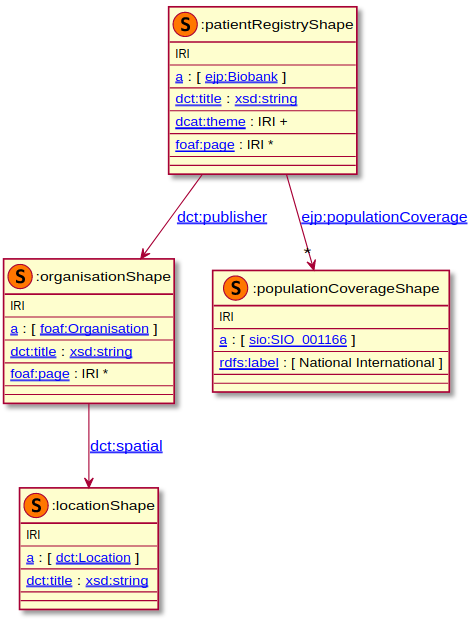
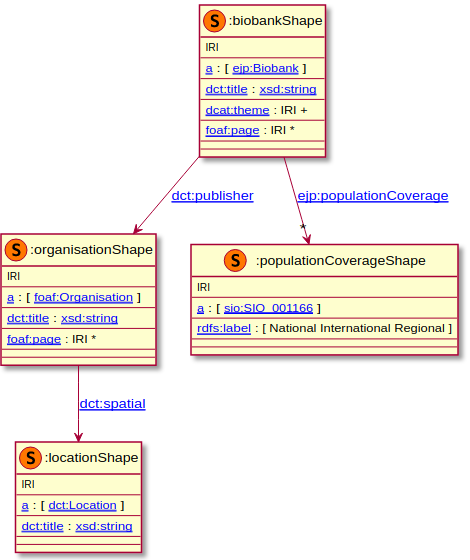
minor issued fixed

Changed region(s): [[0.0, 0.0, 1.0, 1.0]]

diff --git a/docs/guideline.md b/docs/guideline.md
@@ -1,1 +1,70 @@
-### TODO
+### Metadata model figure
+
+<p align="center"> 
+    <a href="https://github.com/rajaram5/resource-metadata-schema/blob/develop/images/turtle/guideline.png" target="_blank">
+        <img src="https://github.com/rajaram5/resource-metadata-schema/blob/develop/images/turtle/guideline.png"> 
+    </a>
+</p>
+
+
+***
+
+### Example rdf (turtle)
+
+```ttl
+@prefix : <http://purl.org/ejp-rd/metadata-model/v1/example-rdf/> .
+@prefix dcat:  <http://www.w3.org/ns/dcat#> .
+@prefix dct:   <http://purl.org/dc/terms/> .
+@prefix ejp:   <http://purl.org/ejp-rd/vocabulary/> .
+@prefix foaf:  <http://xmlns.com/foaf/0.1/> .
+@prefix rdfs:  <http://www.w3.org/2000/01/rdf-schema#> .
+@prefix obo: <http://purl.obolibrary.org/obo/> .
+
+:guideline a ejp:Guideline ;
+  dct:publisher :organisation ;        
+  dct:title "Biomarker Development Manual" ;
+  dcat:theme  obo:NCIT_C17564 ;
+  foaf:page <https://www.uniklinik-freiburg.de/medizin4.html> .
+
+:organisation a foaf:Organisation ;
+  dct:title "EATRIS" .
+```
+
+***
+
+### Validation artifacts 
+
+##### ShEx figure
+
+<p align="center"> 
+    <a href="https://github.com/rajaram5/resource-metadata-schema/blob/develop/images/shex/guideline.png" target="_blank">
+        <img src="https://github.com/rajaram5/resource-metadata-schema/blob/develop/images/shex/guideline.png"> 
+    </a>
+</p>
+
+***
+##### ShEx
+
+``` ShEx
+PREFIX : <http://purl.org/ejp-rd/metadata-model/v1/shex/>
+PREFIX dcat:  <http://www.w3.org/ns/dcat#>
+PREFIX dct:   <http://purl.org/dc/terms/>
+PREFIX ejp:   <http://purl.org/ejp-rd/vocabulary/>
+PREFIX foaf:  <http://xmlns.com/foaf/0.1/>
+PREFIX xsd: <http://www.w3.org/2001/XMLSchema#>
+PREFIX rdfs:  <http://www.w3.org/2000/01/rdf-schema#>
+
+:guidelineShape IRI {
+  a [ejp:Guideline];
+  dct:title xsd:string;
+  dcat:theme IRI+;
+  dct:publisher @:organisationShape;
+  foaf:page IRI*
+}
+
+:organisationShape IRI {
+  a [foaf:Organisation];
+  dct:title xsd:string;
+  foaf:page IRI*
+}
+```

diff --git a/docs/biobank.md b/docs/biobank.md
@@ -64,7 +64,7 @@ PREFIX xsd: <http://www.w3.org/2001/XMLSchema#>
 PREFIX sio:  <http://semanticscience.org/resource/>
 PREFIX rdfs:  <http://www.w3.org/2000/01/rdf-schema#>
 
-:patientRegistryShape IRI {
+:biobankShape IRI {
   a [ejp:Biobank];
   dct:title xsd:string;
   ejp:populationCoverage @:populationCoverageShape*;
@@ -87,6 +87,6 @@ PREFIX rdfs:  <http://www.w3.org/2000/01/rdf-schema#>
 
 :populationCoverageShape IRI {
   a [sio:SIO_001166];
-  rdfs:label ["National" "International"]
+  rdfs:label ["National" "International" "Regional"]
 }
 ```
